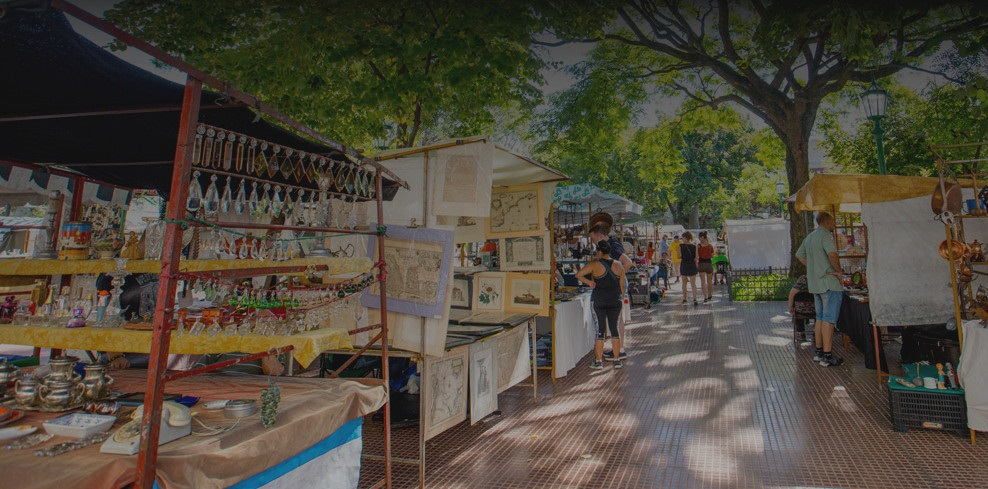
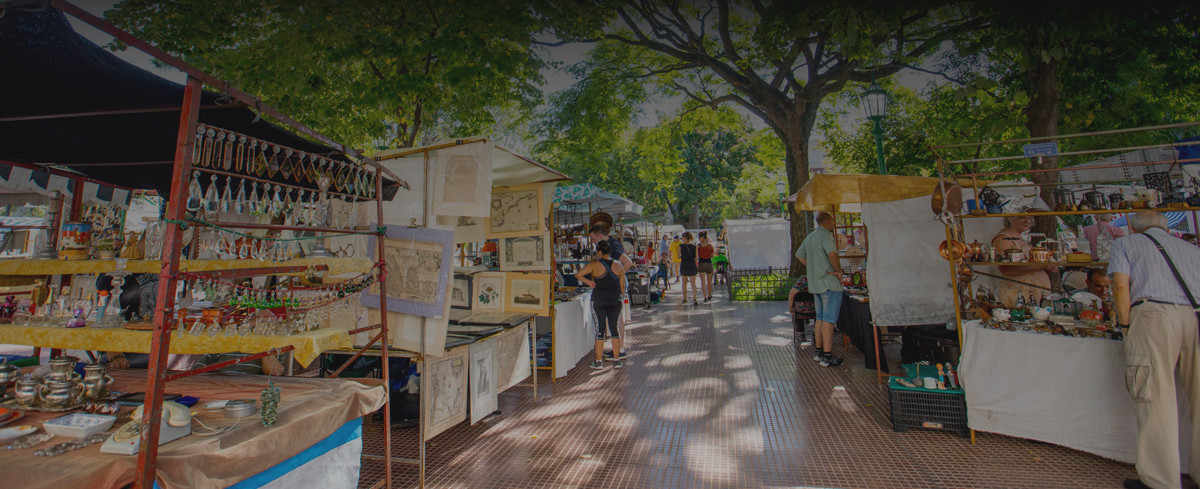
Proyecto listo para entregar

diff --git a/pages/alta.html b/pages/alta.html
@@ -12,6 +12,11 @@
         main {
             background: url(../assets/img/alta.jpg) no-repeat;
         }
+
+        @media (max-width:580px) {
+            main {background: url(../assets/img/alta_chica.jpg) no-repeat;
+            }
+        }
     </style>
 
 </head>
